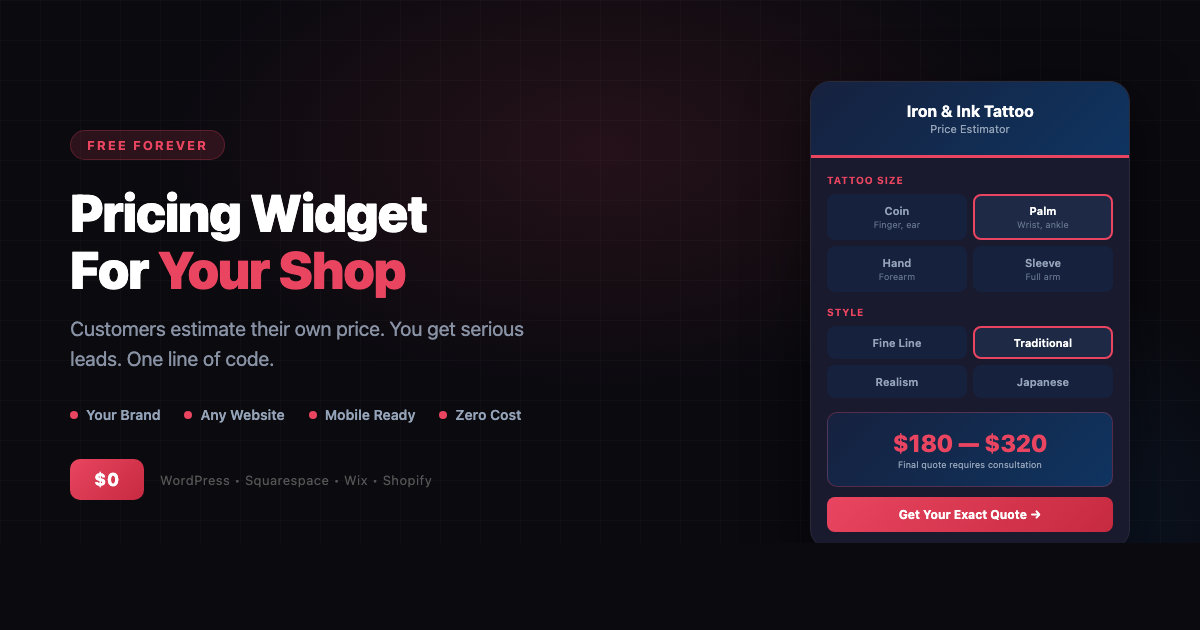
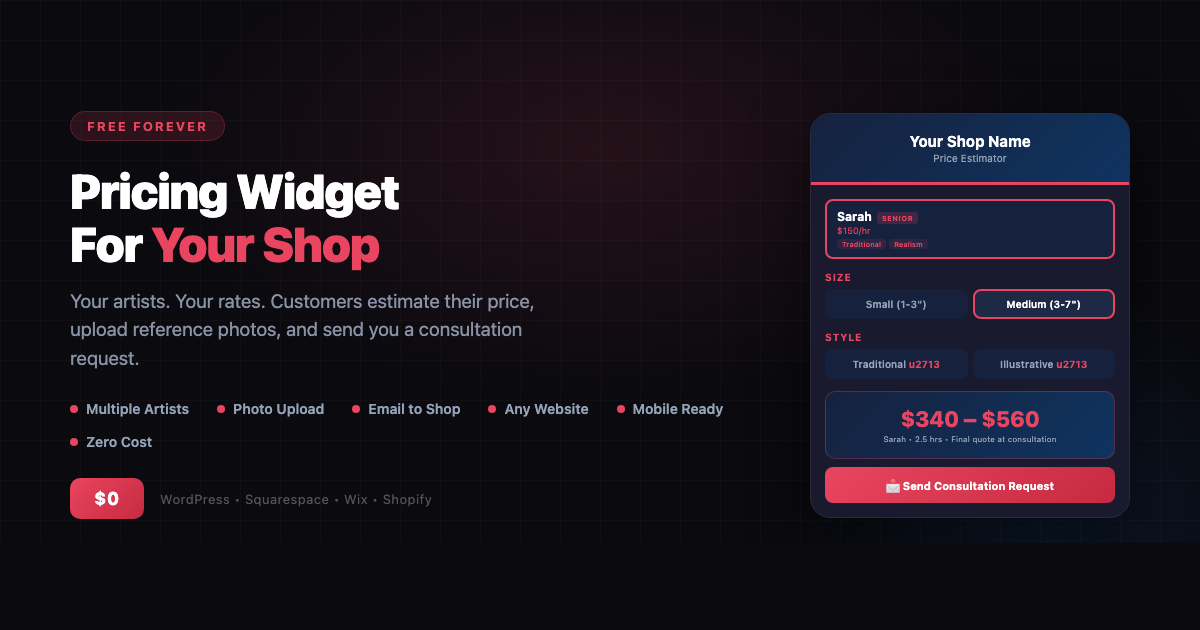
Regenerate OG image with artist cards, multi-select, email CTA
Updated preview card shows: artist selector with tier badge, inch-based
sizes, multi-select styles with checkmarks, price range, and Send
Consultation Request button.

diff --git a/og-image.html b/og-image.html
@@ -6,47 +6,58 @@
   *{margin:0;padding:0;box-sizing:border-box}
   body{width:1200px;height:630px;background:#0a0a0f;font-family:-apple-system,BlinkMacSystemFont,'SF Pro Display','Segoe UI',sans-serif;overflow:hidden;position:relative}
 
-  /* Background glow */
   .glow{position:absolute;top:-100px;left:50%;transform:translateX(-50%);width:900px;height:500px;background:radial-gradient(ellipse,rgba(233,69,96,.12) 0%,transparent 70%);pointer-events:none}
   .glow2{position:absolute;bottom:-150px;right:-100px;width:500px;height:500px;background:radial-gradient(circle,rgba(15,52,96,.3) 0%,transparent 70%);pointer-events:none}
-
-  /* Grid lines */
   .grid{position:absolute;inset:0;background-image:linear-gradient(rgba(255,255,255,.02) 1px,transparent 1px),linear-gradient(90deg,rgba(255,255,255,.02) 1px,transparent 1px);background-size:40px 40px}
 
   .container{position:relative;z-index:1;display:flex;height:100%;padding:60px 70px}
 
-  /* Left side — text */
   .left{flex:1;display:flex;flex-direction:column;justify-content:center;padding-right:40px}
   .badge{display:inline-block;background:rgba(233,69,96,.15);color:#e94560;font-size:13px;font-weight:700;padding:6px 16px;border-radius:20px;letter-spacing:2px;text-transform:uppercase;margin-bottom:24px;width:fit-content;border:1px solid rgba(233,69,96,.25)}
-  .title{font-size:52px;font-weight:900;color:#fff;line-height:1.1;margin-bottom:16px;letter-spacing:-1px}
+  .title{font-size:48px;font-weight:900;color:#fff;line-height:1.1;margin-bottom:16px;letter-spacing:-1px}
   .title span{color:#e94560}
-  .subtitle{font-size:20px;color:#8892a4;line-height:1.5;margin-bottom:32px;max-width:480px}
+  .subtitle{font-size:19px;color:#8892a4;line-height:1.5;margin-bottom:28px;max-width:480px}
 
-  .features{display:flex;gap:24px}
+  .features{display:flex;flex-wrap:wrap;gap:16px 28px;margin-bottom:28px}
   .feature{display:flex;align-items:center;gap:8px}
   .feature .dot{width:8px;height:8px;border-radius:50%;background:#e94560;flex-shrink:0}
   .feature span{color:#94a3b8;font-size:14px;font-weight:600}
 
-  .bottom-bar{display:flex;align-items:center;gap:16px;margin-top:36px}
+  .bottom-bar{display:flex;align-items:center;gap:16px}
   .price-tag{background:linear-gradient(135deg,#e94560,#c62a40);color:#fff;font-size:18px;font-weight:800;padding:10px 24px;border-radius:10px;letter-spacing:1px}
   .platforms{color:#555;font-size:13px;letter-spacing:.5px}
 
-  /* Right side — widget preview */
   .right{width:320px;flex-shrink:0;display:flex;align-items:center}
   .widget-preview{width:100%;background:#1a1a2e;border-radius:20px;overflow:hidden;box-shadow:0 20px 60px rgba(0,0,0,.5);border:1px solid #2a2a3a}
-  .wp-header{background:linear-gradient(135deg,#16213e,#0f3460);padding:20px;text-align:center;border-bottom:3px solid #e94560}
-  .wp-header h3{color:#fff;font-size:16px;font-weight:700;margin-bottom:2px}
-  .wp-header p{color:#94a3b8;font-size:11px}
-  .wp-body{padding:16px}
-  .wp-label{font-size:10px;font-weight:700;text-transform:uppercase;letter-spacing:.8px;color:#e94560;margin-bottom:8px}
-  .wp-options{display:flex;flex-wrap:wrap;gap:6px;margin-bottom:14px}
-  .wp-opt{flex:1;min-width:calc(50% - 3px);background:#16213e;border:2px solid transparent;border-radius:8px;padding:8px 6px;text-align:center;color:#94a3b8;font-size:11px;font-weight:600}
+  .wp-header{background:linear-gradient(135deg,#16213e,#0f3460);padding:18px;text-align:center;border-bottom:3px solid #e94560}
+  .wp-header h3{color:#fff;font-size:15px;font-weight:700;margin-bottom:2px}
+  .wp-header p{color:#94a3b8;font-size:10px}
+  .wp-body{padding:14px}
+  .wp-label{font-size:10px;font-weight:700;text-transform:uppercase;letter-spacing:.8px;color:#e94560;margin-bottom:6px}
+  .wp-options{display:flex;flex-wrap:wrap;gap:5px;margin-bottom:12px}
+  .wp-opt{flex:1;min-width:calc(50% - 3px);background:#16213e;border:2px solid transparent;border-radius:8px;padding:7px 5px;text-align:center;color:#94a3b8;font-size:10px;font-weight:600}
   .wp-opt.active{border-color:#e94560;background:#1e2a45;color:#fff}
-  .wp-opt small{display:block;font-size:9px;color:#64748b;margin-top:2px;font-weight:400}
-  .wp-result{background:linear-gradient(135deg,#16213e,#0f3460);border-radius:10px;padding:16px;text-align:center;margin-top:4px;border:1px solid rgba(233,69,96,.3)}
-  .wp-result .price{font-size:24px;font-weight:800;color:#e94560;margin-bottom:2px}
-  .wp-result .note{font-size:9px;color:#94a3b8}
-  .wp-btn{display:block;width:100%;background:linear-gradient(135deg,#e94560,#c62a40);color:#fff;border:none;border-radius:8px;padding:10px;font-size:12px;font-weight:700;margin-top:10px;text-align:center}
+  .wp-opt.check::after{content:' \u2713';color:#e94560;font-weight:700}
+  .wp-opt small{display:block;font-size:8px;color:#64748b;margin-top:2px;font-weight:400}
+
+  /* Artist card */
+  .wp-artist{display:flex;gap:8px;background:#16213e;border:2px solid #e94560;border-radius:8px;padding:8px 10px;margin-bottom:12px;align-items:center}
+  .wp-artist-name{font-size:12px;font-weight:700;color:#fff}
+  .wp-artist-badge{display:inline-block;background:rgba(233,69,96,.2);color:#e94560;font-size:7px;font-weight:700;padding:2px 5px;border-radius:3px;margin-left:5px;text-transform:uppercase;letter-spacing:.5px}
+  .wp-artist-rate{font-size:9px;color:#e94560;margin-top:1px}
+  .wp-artist-tags{display:flex;gap:3px;margin-top:3px}
+  .wp-artist-tag{font-size:7px;padding:1px 5px;border-radius:3px;background:rgba(233,69,96,.12);color:#e94560;font-weight:600}
+
+  .wp-upload{background:#16213e;border:2px dashed #2a2a4a;border-radius:8px;padding:10px;text-align:center;margin-bottom:10px}
+  .wp-upload-icon{font-size:18px;margin-bottom:2px}
+  .wp-upload-text{font-size:9px;color:#64748b}
+  .wp-upload-text strong{color:#fff}
+
+  .wp-result{background:linear-gradient(135deg,#16213e,#0f3460);border-radius:10px;padding:14px;text-align:center;border:1px solid rgba(233,69,96,.3)}
+  .wp-result .price{font-size:22px;font-weight:800;color:#e94560;margin-bottom:2px}
+  .wp-result .note{font-size:8px;color:#94a3b8}
+  .wp-btn{display:block;width:100%;background:linear-gradient(135deg,#e94560,#c62a40);color:#fff;border:none;border-radius:8px;padding:9px;font-size:11px;font-weight:700;margin-top:8px;text-align:center}
+  .wp-btn-email{background:linear-gradient(135deg,#e94560,#c62a40)}
 </style>
 </head>
 <body>
@@ -57,9 +68,11 @@
   <div class="left">
     <div class="badge">Free Forever</div>
     <div class="title">Pricing Widget<br>For <span>Your Shop</span></div>
-    <div class="subtitle">Customers estimate their own price. You get serious leads. One line of code.</div>
+    <div class="subtitle">Your artists. Your rates. Customers estimate their price, upload reference photos, and send you a consultation request.</div>
     <div class="features">
-      <div class="feature"><div class="dot"></div><span>Your Brand</span></div>
+      <div class="feature"><div class="dot"></div><span>Multiple Artists</span></div>
+      <div class="feature"><div class="dot"></div><span>Photo Upload</span></div>
+      <div class="feature"><div class="dot"></div><span>Email to Shop</span></div>
       <div class="feature"><div class="dot"></div><span>Any Website</span></div>
       <div class="feature"><div class="dot"></div><span>Mobile Ready</span></div>
       <div class="feature"><div class="dot"></div><span>Zero Cost</span></div>
@@ -72,29 +85,35 @@
   <div class="right">
     <div class="widget-preview">
       <div class="wp-header">
-        <h3>Iron & Ink Tattoo</h3>
+        <h3>Your Shop Name</h3>
         <p>Price Estimator</p>
       </div>
       <div class="wp-body">
-        <div class="wp-label">Tattoo Size</div>
+        <div class="wp-artist">
+          <div>
+            <div class="wp-artist-name">Sarah<span class="wp-artist-badge">Senior</span></div>
+            <div class="wp-artist-rate">$150/hr</div>
+            <div class="wp-artist-tags">
+              <span class="wp-artist-tag">Traditional</span>
+              <span class="wp-artist-tag">Realism</span>
+            </div>
+          </div>
+        </div>
+        <div class="wp-label">Size</div>
         <div class="wp-options">
-          <div class="wp-opt">Coin<small>Finger, ear</small></div>
-          <div class="wp-opt active">Palm<small>Wrist, ankle</small></div>
-          <div class="wp-opt">Hand<small>Forearm</small></div>
-          <div class="wp-opt">Sleeve<small>Full arm</small></div>
+          <div class="wp-opt">Small (1-3")</div>
+          <div class="wp-opt active">Medium (3-7")</div>
         </div>
         <div class="wp-label">Style</div>
         <div class="wp-options">
-          <div class="wp-opt">Fine Line</div>
-          <div class="wp-opt active">Traditional</div>
-          <div class="wp-opt">Realism</div>
-          <div class="wp-opt">Japanese</div>
+          <div class="wp-opt check">Traditional</div>
+          <div class="wp-opt check">Illustrative</div>
         </div>
         <div class="wp-result">
-          <div class="price">$180 — $320</div>
-          <div class="note">Final quote requires consultation</div>
+          <div class="price">$340 &ndash; $560</div>
+          <div class="note">Sarah &bull; 2.5 hrs &bull; Final quote at consultation</div>
         </div>
-        <div class="wp-btn">Get Your Exact Quote &rarr;</div>
+        <div class="wp-btn wp-btn-email">&#x1f4e9; Send Consultation Request</div>
       </div>
     </div>
   </div>
